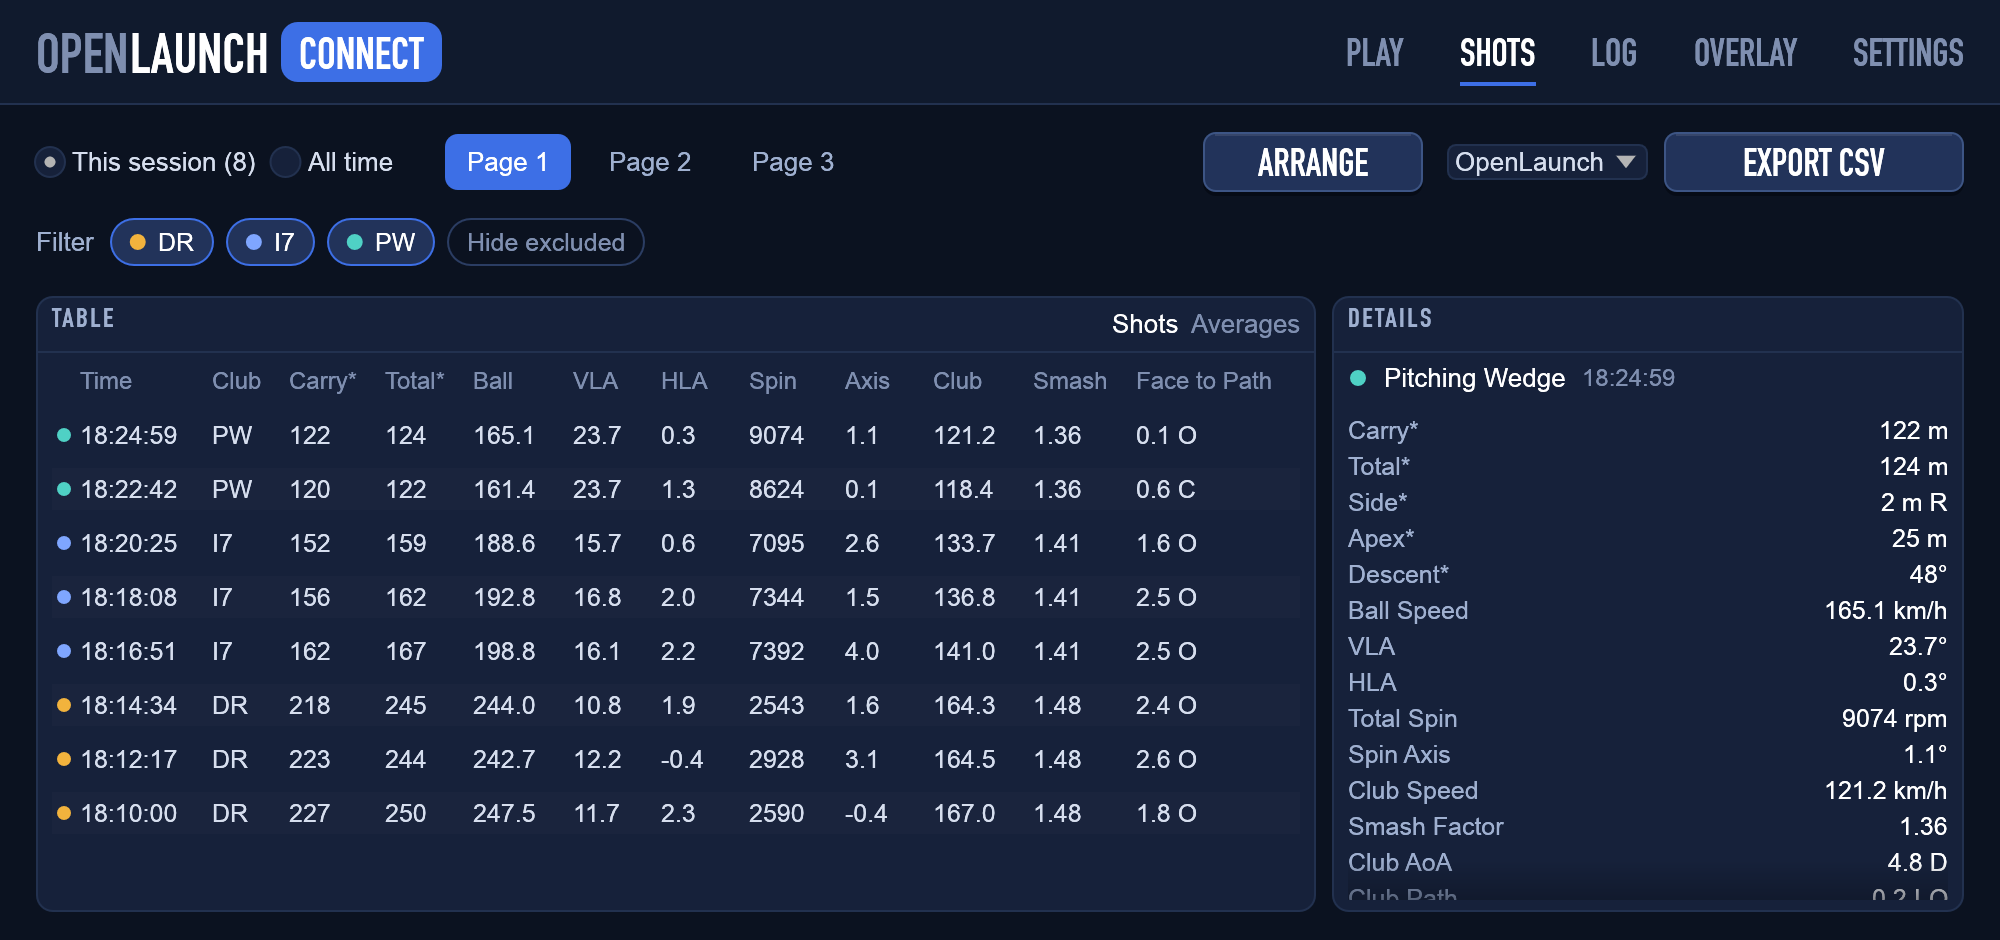
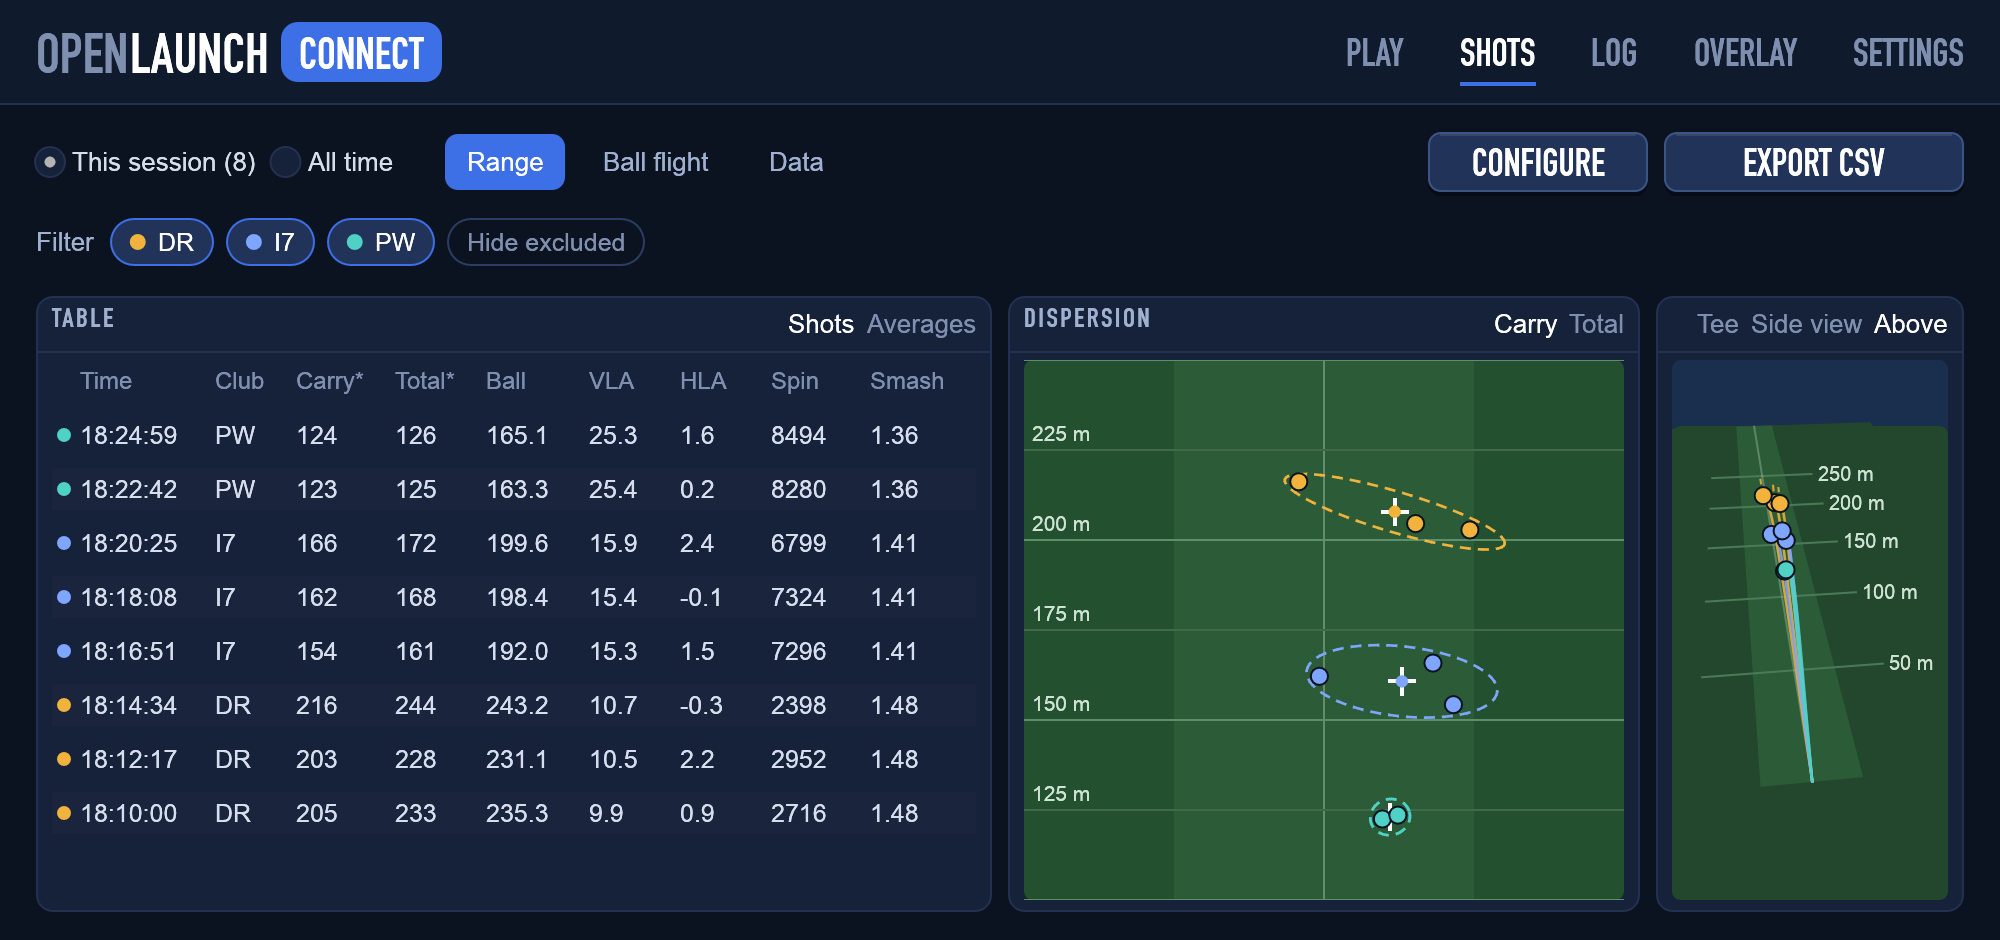
Explorer: default pages Range, Ball flight and Data
One row each, as set up by the maintainer: table + dispersion + flights
from above; flights from the tee, side and above; table + details. The
default names are shown translated.

diff --git a/src/bin/openlaunch-connect/explorer.rs b/src/bin/openlaunch-connect/explorer.rs
@@ -7,7 +7,7 @@ use openlaunch_connect::flight::{self, Flight};
 use openlaunch_connect::history::Stat;
 use std::rc::Rc;
 
-use openlaunch_connect::settings::{Camera, ExplorerPage, Metric, Tile, TileKind, TileSize};
+use openlaunch_connect::settings::{Camera, DEFAULT_PAGE_NAMES, ExplorerPage, Metric, Tile, TileKind, TileSize};
 
 use super::*;
 
@@ -156,7 +156,11 @@ fn size_name(size: TileSize) -> &'static str {
 }
 
 fn page_name(page: &ExplorerPage, i: usize) -> String {
-    if page.name.trim().is_empty() { tr("Page {n}").replace("{n}", &(i + 1).to_string()) } else { page.name.clone() }
+    if page.name.trim().is_empty() {
+        return tr("Page {n}").replace("{n}", &(i + 1).to_string());
+    }
+    // The default pages' names in the language shown.
+    DEFAULT_PAGE_NAMES.iter().find(|n| **n == page.name).map_or_else(|| page.name.clone(), |n| tr(n).to_string())
 }
 
 /// Changes to a page from its tab's menu, applied afterwards.
@@ -249,7 +253,7 @@ impl App {
                 if i > 0 && link(ui, "◀", LABEL).on_hover_text(tr("Move the page left")).clicked() {
                     page_edit = Some(PageEdit::Move(i, -1));
                 }
-                let mut name = page.name.clone();
+                let mut name = if page.name.trim().is_empty() { String::new() } else { page_name(page, i) };
                 let hint = tr("Page {n}").replace("{n}", &(i + 1).to_string());
                 let w = (text_width(ui, if name.is_empty() { &hint } else { &name }, 13.0) + 24.0).clamp(70.0, 180.0);
                 if ui.add(egui::TextEdit::singleline(&mut name).hint_text(hint).desired_width(w)).on_hover_text(tr("Name of the page")).changed() {
@@ -276,7 +280,7 @@ impl App {
             }
             // Stays open while typing the name; the entries close it themselves.
             egui::Popup::context_menu(&tab).close_behavior(egui::PopupCloseBehavior::CloseOnClickOutside).show(|ui| {
-                let mut name = page.name.clone();
+                let mut name = if page.name.trim().is_empty() { String::new() } else { page_name(page, i) };
                 let hint = tr("Page {n}").replace("{n}", &(i + 1).to_string());
                 if ui.add(egui::TextEdit::singleline(&mut name).hint_text(hint).desired_width(160.0)).changed() {
                     page_edit = Some(PageEdit::Rename(i, name));
@@ -1826,8 +1830,8 @@ mod tests {
         for _ in 0..3 {
             harness.step();
         }
-        // Default page: table 4×2 on the left, details 2×2 on the right (six columns).
-        let (from, to) = (pos2(250.0, 300.0), pos2(850.0, 300.0));
+        // Default page: table 3×2, dispersion 2×2, flight 1×2 (six columns).
+        let (from, to) = (pos2(250.0, 300.0), pos2(650.0, 300.0));
         let events = [
             egui::Event::PointerMoved(from),
             egui::Event::PointerButton { pos: from, button: egui::PointerButton::Primary, pressed: true, modifiers: Default::default() },
@@ -1841,7 +1845,7 @@ mod tests {
         }
         harness.step();
         let kinds: Vec<TileKind> = harness.state().saved.explorer.pages[0].tiles.iter().map(|t| t.kind).collect();
-        assert_eq!(kinds, [TileKind::Details, TileKind::Table]);
+        assert_eq!(kinds, [TileKind::Dispersion, TileKind::Table, TileKind::Flight]);
     }
 
     #[test]

diff --git a/src/settings.rs b/src/settings.rs
@@ -54,22 +54,41 @@ pub struct Explorer {
 }
 
 impl Default for Explorer {
-    /// A page with the shots table and the details of a shot, the table on a page of its own,
-    /// and the averages per club.
+    /// One row each: the range (table, dispersion, flights from above), the ball flight from the
+    /// tee, the side and above, and the data (table and details of a shot). The names are shown
+    /// translated (see `DEFAULT_PAGE_NAMES`).
     fn default() -> Self {
-        let tile = |kind, size, averages| Tile { kind, size, averages, ..Tile::default() };
+        let tile = |kind, size, camera| Tile { kind, size, camera, ..Tile::default() };
+        let page = |name: &str, tiles| ExplorerPage { name: name.into(), tiles };
         Self {
             pages: vec![
-                ExplorerPage {
-                    name: String::new(),
-                    tiles: vec![tile(TileKind::Table, TileSize::W4H2, false), tile(TileKind::Details, TileSize::W2H2, false)],
-                },
-                ExplorerPage { name: String::new(), tiles: vec![tile(TileKind::Table, TileSize::Page, false)] },
-                ExplorerPage { name: String::new(), tiles: vec![tile(TileKind::Table, TileSize::Page, true)] },
+                page(
+                    DEFAULT_PAGE_NAMES[0],
+                    vec![
+                        tile(TileKind::Table, TileSize::W3H2, Camera::Tee),
+                        tile(TileKind::Dispersion, TileSize::W2H2, Camera::Tee),
+                        tile(TileKind::Flight, TileSize::W1H2, Camera::Above),
+                    ],
+                ),
+                page(
+                    DEFAULT_PAGE_NAMES[1],
+                    vec![
+                        tile(TileKind::Flight, TileSize::W2H2, Camera::Tee),
+                        tile(TileKind::Flight, TileSize::W3H2, Camera::Side),
+                        tile(TileKind::Flight, TileSize::W1H2, Camera::Above),
+                    ],
+                ),
+                page(
+                    DEFAULT_PAGE_NAMES[2],
+                    vec![tile(TileKind::Table, TileSize::W4H2, Camera::Tee), tile(TileKind::Details, TileSize::W2H2, Camera::Tee)],
+                ),
             ],
         }
     }
 }
+
+/// Names of the default pages, in English; the app shows them translated.
+pub const DEFAULT_PAGE_NAMES: [&str; 3] = ["Range", "Ball flight", "Data"];
 
 #[derive(Debug, Clone, Default, Serialize, Deserialize, PartialEq)]
 #[serde(default)]

diff --git a/src/i18n.rs b/src/i18n.rs
@@ -194,6 +194,9 @@ fn de(en: &str) -> Option<&'static str> {
         "Language" => "Sprache",
         "System" => "System",
         "Interface" => "Oberfläche",
+        "Range" => "Range",
+        "Ball flight" => "Ballflug",
+        "Data" => "Daten",
         "3D flight" => "3D-Flug",
         "Tee" => "Abschlag",
         "Side view" => "Seite",

diff --git a/CHANGELOG.md b/CHANGELOG.md
@@ -22,11 +22,13 @@ The format is based on [Keep a Changelog](https://keepachangelog.com/en/1.1.0/),
   estimated flights with the roll-out, from the tee, from the side or from above. *Configure* adds tiles (the empty
   tile with +), picks what each tile shows and its size (1×1 up to the whole page), lets you drag tiles into place
   and removes them; the page shown is renamed, moved and removed (after asking) right in its tab, *+* adds a page
-  (also with a right-click on a tab). The layout is saved; *Reset shots view* in the settings brings back the
-  default pages (after asking). A filter by club (a menu when the clubs don't fit in a row; clubs in bag order, each
-  with its own colour) and *Hide excluded* apply to every tile; shots clicked in a table or chart are selected
-  everywhere and can be shown alone, excluded or counted again together. Larger windows (fixed interface size) fit
-  more tiles. *Export CSV* writes the shots shown and asks for the layout in a dialog.
+  (also with a right-click on a tab). It starts with three pages: *Range* (table, dispersion, flights from above),
+  *Ball flight* (from the tee, the side and above) and *Data* (table and details). The layout is saved; *Reset shots
+  view* in the settings brings back the default pages (after asking). A filter by club (a menu when the clubs don't
+  fit in a row; clubs in bag order, each with its own colour) and *Hide excluded* apply to every tile; shots clicked
+  in a table or chart are selected everywhere and can be shown alone, excluded or counted again together. Larger
+  windows (fixed interface size) fit more tiles. *Export CSV* writes the shots shown and asks for the layout in a
+  dialog.
 
 ### Changed
 - **Interface size** (Settings → Display): *Auto* zooms the interface with the window as before; a fixed size of
